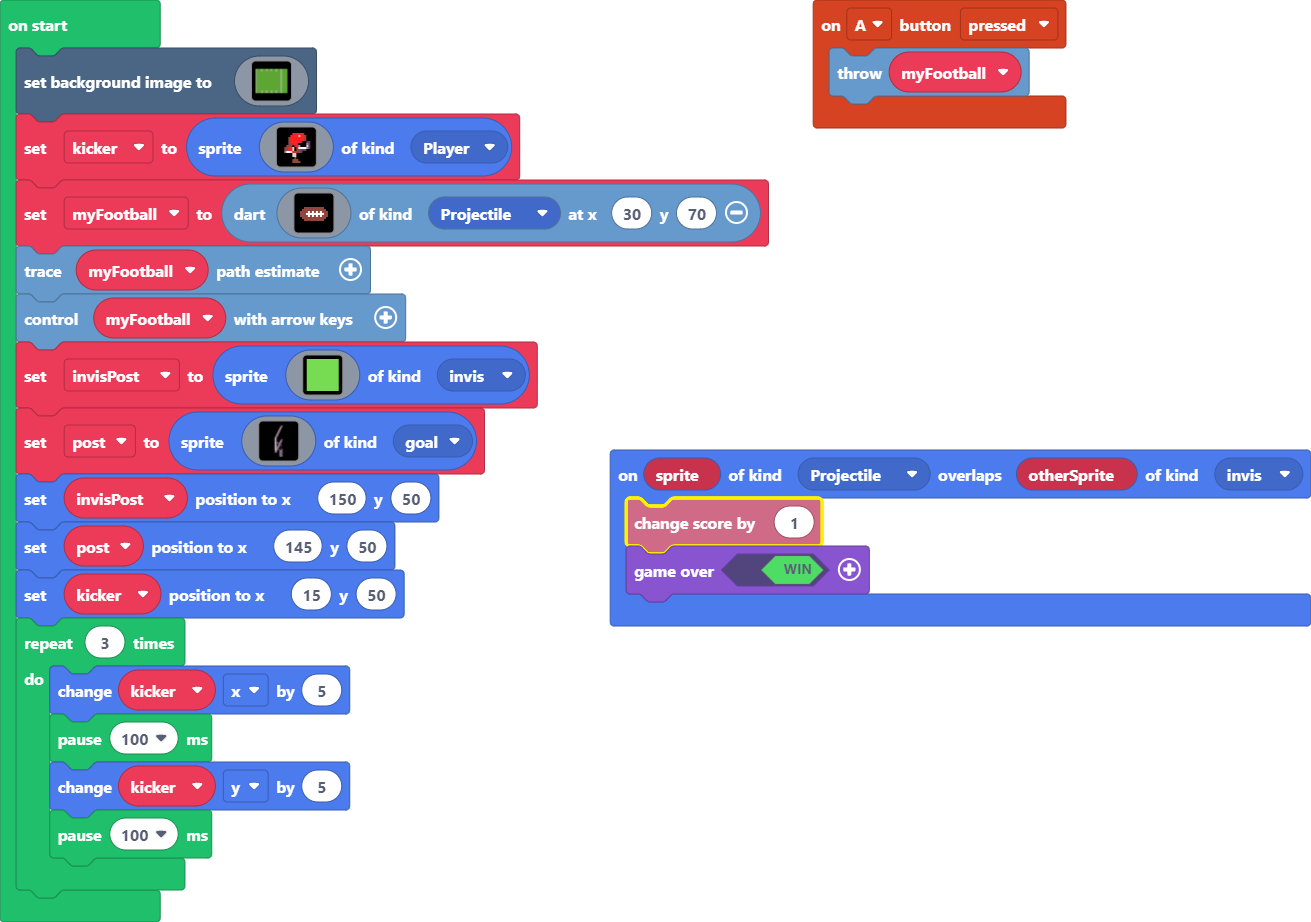
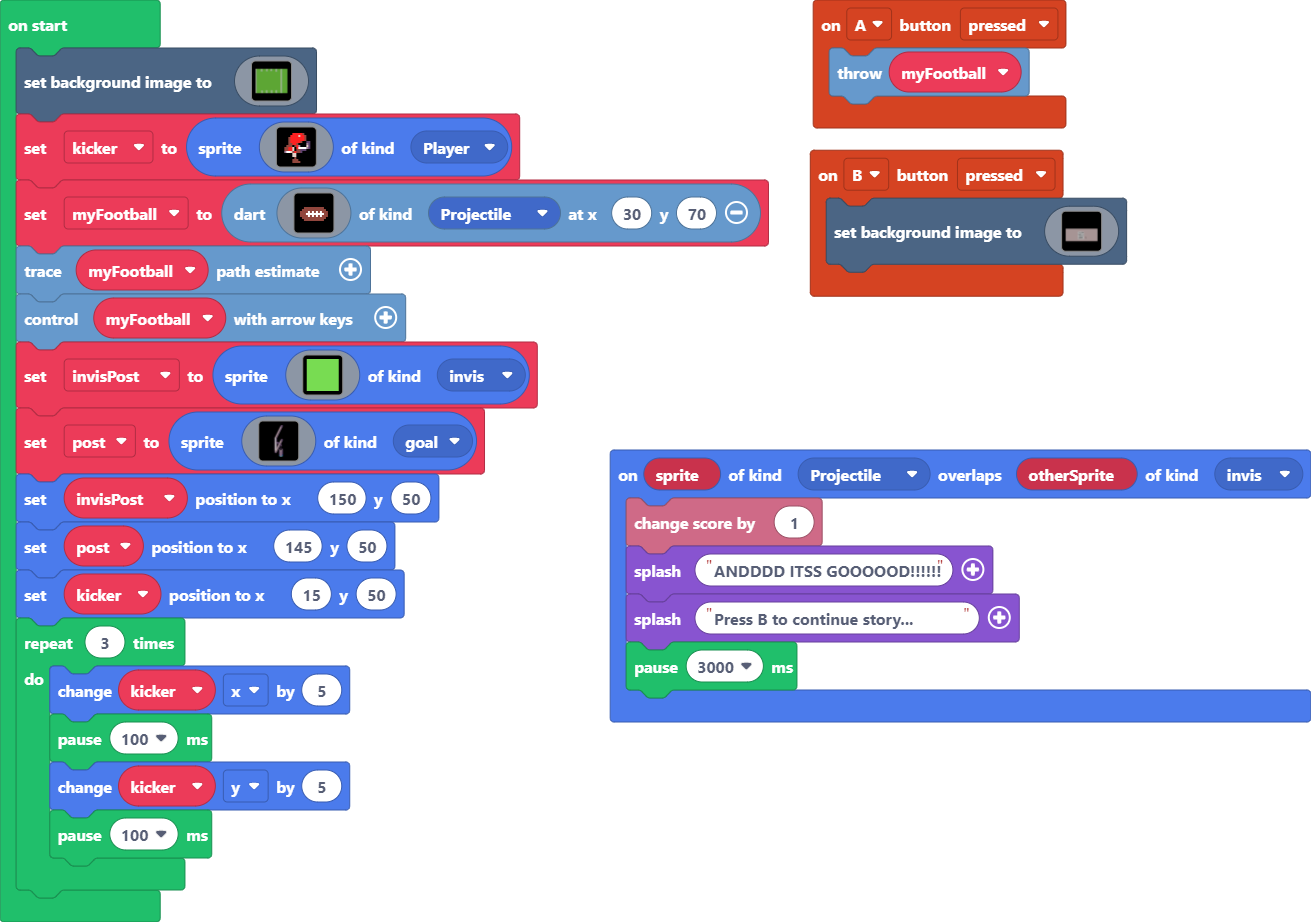
Update main.blocks, main.ts

Changed region(s): [[0.4577, 0.577, 1.0, 0.7896], [0.6102, 0.1518, 0.8848, 0.3341], [0.5187, 0.5163, 0.6102, 0.5466]]

diff --git a/main.ts b/main.ts
@@ -2,12 +2,138 @@ namespace SpriteKind {
     export const goal = SpriteKind.create()
     export const invis = SpriteKind.create()
 }
+controller.B.onEvent(ControllerButtonEvent.Pressed, function () {
+    scene.setBackgroundImage(img`
+        ................................................................................................................................................................
+        ................................................................................................................................................................
+        ................................................................................................................................................................
+        ................................................................................................................................................................
+        ................................................................................................................................................................
+        ................................................................................................................................................................
+        ................................................................................................................................................................
+        ................................................................................................................................................................
+        ................................................................................................................................................................
+        ................................................................................................................................................................
+        ................................................................................................................................................................
+        ................................................................................................................................................................
+        ................................................................................................................................................................
+        ................................................................................................................................................................
+        ................................................................................................................................................................
+        ................................................................................................................................................................
+        ................................................................................................................................................................
+        ................................................................................................................................................................
+        ................................................................................................................................................................
+        ................................................................................................................................................................
+        ................................................................................................................................................................
+        ................................................................................................................................................................
+        ................................................................................................................................................................
+        ................................................................................................................................................................
+        ................................................................................................................................................................
+        ................................................................................................................................................................
+        ................................................................................................................................................................
+        ................................................................................................................................................................
+        ................................................................................................................................................................
+        ................................................................................................................................................................
+        ................................................................................................................................................................
+        ................................................................................................................................................................
+        ................................................................................................................................................................
+        ................................................................................................................................................................
+        ................................................................................................................................................................
+        ................................................................................................................................................................
+        ................................................................................................................................................................
+        ................................................................................................................................................................
+        ................................................................................................................................................................
+        ................................................................................................................................................................
+        ................................................................................................................................................................
+        ................................................................................................................................................................
+        ................................................................................................................................................................
+        ................................................................................................................................................................
+        ................................................................................................................................................................
+        ................................................................................................................................................................
+        ................................................................................................................................................................
+        ................................................................................................................................................................
+        dddddddddddddddddddddddddddddddddddddddddddddddddddddddddddddddddddddddddddddddddddddddddddddddddddddddddddddddddddddddddddddddddddddddddddddddddddddddddddddddd
+        dddddddddddddddddddddddddddddddddddddddddddddddddddddddddddddddddddddddddddddddddddddddddddddddddddddddddddddddddddddddddddddddddddddddddddddddddddddddddddddddd
+        dddddddddddddddddddddddddddddddddddddddddddddddddddddddddddddddddddddddddddddddddddddddddddddddddddddddddddddddddddddddddddddddddddddddddddddddddddddddddddddddd
+        dddddddddddddddddddddddddddddddddddddddddddddddddddddddddddddddddddddddddddddddddddddddddddddddddddddddddddddddddddddddddddddddddddddddddddddddddddddddddddddddd
+        dddddddddddddddddddddddddddddddddddddddddddddddddddddddddddddddddddddddddddddddddddddddddddddddddddddddddddddddddddddddddddddddddddddddddddddddddddddddddddddddd
+        dddddddddddddddddddddddddddddddddddddddddddddddddddddddddddddddddddddddddddddddddddddddddddddddddddddddddddddddddddddddddddddddddddddddddddddddddddddddddddddddd
+        dddddddddddddddddddddddddddddddddddddddddddddddddddddddddddddddddddddddddddddddddddddddddddddddddddddddddddddddddddddddddddddddddddddddddddddddddddddddddddddddd
+        dddddddddddddddddddddddddddddddddddddddddddddddddddddddddddddddddddddddddddddddddddddddddddddddddddddddddddddddddddddddddddddddddddddddddddddddddddddddddddddddd
+        dddddddddddddddddddddddddddddddddddddddddddddddddddddddddddddddddddddddddddddddddddddddddddddddddddddddddddddddddddddddddddddddddddddddddddddddddddddddddddddddd
+        dddddddddddddddddddddddddddddddddddddddddddddddddddddddddddddddddddddddddddddddddddddddddddddddddddddddddddddddddddddddddddddddddddddddddddddddddddddddddddddddd
+        dddddddddddddddddddddddddddddddddddddddddddddddddddddddddddddddddddddddddddddddddddddddddddddddddddddddddddddddddddddddddddddddddddddddddddddddddddddddddddddddd
+        dddddddddddddddddddddddddddddddddddddddddddddddddddddddddddddddddddddddddddddddddddddddddddddddddddddddddddddddddddddddddddddddddddddddddddddddddddddddddddddddd
+        dddddddddddddddddddddddddddddddddddddddddddddddddddddddddddddddddddddddddddddddddddddddddddddddddddddddddddddddddddddddddddddddddddddddddddddddddddddddddddddddd
+        dddddddddddddddddddddddddddddddddddddddddddddddddddddddddddddddddddddddddddddddddddddddddddddddddddddddddddddddddddddddddddddddddddddddddddddddddddddddddddddddd
+        dddddddddddddddddddddddddddddddddddddddddddddddddddddddddddddddddddddddddddddddddddddddddddddddddddddddddddddddddddddddddddddddddddddddddddddddddddddddddddddddd
[37 lines of base64/hex data omitted]
+        dddddddddddddddddddddddddddddddddddddddddddddddddddddddddddddddddddddddddddddddddddddddddddddddddddddddddddddddddddddddddddddddddddddddddddddddddddddddddddddddd
+        dddddddddddddddddddddddddddddddddddddddddddddddddddddddddddddddddddddddddddddddddddddddddddddddddddddddddddddddddddddddddddddddddddddddddddddddddddddddddddddddd
+        dddddddddddddddddddddddddddddddddddddddddddddddddddddddddddddddddddddddddddddddddddddddddddddddddddddddddddddddddddddddddddddddddddddddddddddddddddddddddddddddd
+        dddddddddddddddddddddddddddddddddddddddddddddddddddddddddddddddddddddddddddddddddddddddddddddddddddddddddddddddddddddddddddddddddddddddddddddddddddddddddddddddd
+        dddddddddddddddddddddddddddddddddddddddddddddddddddddddddddddddddddddddddddddddddddddddddddddddddddddddddddddddddddddddddddddddddddddddddddddddddddddddddddddddd
+        dddddddddddddddddddddddddddddddddddddddddddddddddddddddddddddddddddddddddddddddddddddddddddddddddddddddddddddddddddddddddddddddddddddddddddddddddddddddddddddddd
+        dddddddddddddddddddddddddddddddddddddddddddddddddddddddddddddddddddddddddddddddddddddddddddddddddddddddddddddddddddddddddddddddddddddddddddddddddddddddddddddddd
+        dddddddddddddddddddddddddddddddddddddddddddddddddddddddddddddddddddddddddddddddddddddddddddddddddddddddddddddddddddddddddddddddddddddddddddddddddddddddddddddddd
+        dddddddddddddddddddddddddddddddddddddddddddddddddddddddddddddddddddddddddddddddddddddddddddddddddddddddddddddddddddddddddddddddddddddddddddddddddddddddddddddddd
+        ................................................................................................................................................................
+        ................................................................................................................................................................
+        ................................................................................................................................................................
+        ................................................................................................................................................................
+        ................................................................................................................................................................
+        ................................................................................................................................................................
+        ................................................................................................................................................................
+        ................................................................................................................................................................
+        ................................................................................................................................................................
+        ................................................................................................................................................................
+        ................................................................................................................................................................
+        `)
+})
 controller.A.onEvent(ControllerButtonEvent.Pressed, function () {
     myFootball.throwDart()
 })
 sprites.onOverlap(SpriteKind.Projectile, SpriteKind.invis, function (sprite, otherSprite) {
     info.changeScoreBy(1)
-    game.over(true)
+    game.splash("ANDDDD ITSS GOOOOOD!!!!!!")
+    game.splash("Press B to continue story...")
+    pause(3000)
 })
 let myFootball: Dart = null
 scene.setBackgroundImage(img`
